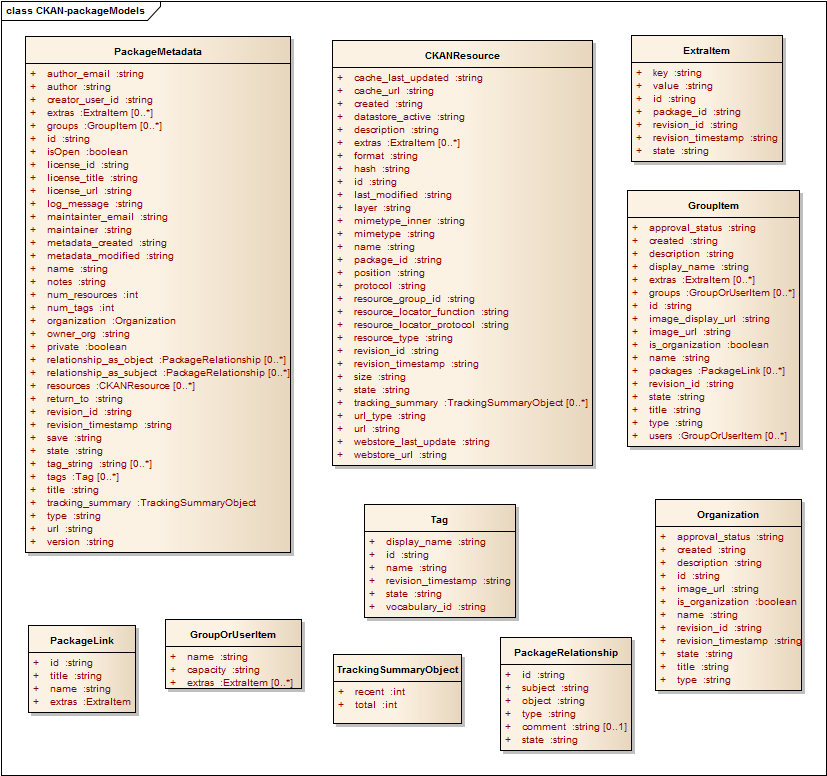
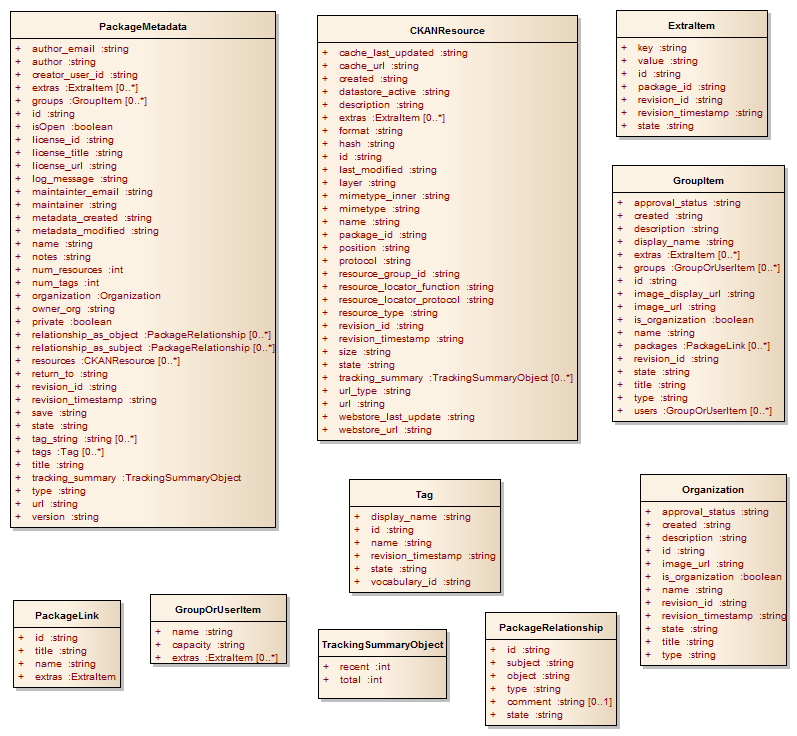
update root pages to get diagram links fixed

diff --git a/EARoot/EA1.htm b/EARoot/EA1.htm
@@ -36,16 +36,16 @@ function nameClassifier(name, separator)
 <img src="EA2.png" usemap="#EA2" border="0" />
 
 <MAP NAME="EA2">
-<area shape="rect" coords="275,569,536,995" href="EA3.htm" target="_self">
-<area shape="rect" coords="62,452,191,522" href="EA12.htm" target="_self">
-<area shape="rect" coords="244,443,396,557" href="EA11.htm" target="_self">
-<area shape="rect" coords="10,525,143,595" href="EA6.htm" target="_self">
-<area shape="rect" coords="215,506,323,594" href="EA8.htm" target="_self">
-<area shape="rect" coords="265,442,397,556" href="EA10.htm" target="_self">
-<area shape="rect" coords="469,363,616,555" href="EA7.htm" target="_self">
-<area shape="rect" coords="470,195,643,452" href="EA5.htm" target="_self">
-<area shape="rect" coords="464,37,616,164" href="EA4.htm" target="_self">
-<area shape="rect" coords="60,10,326,527" href="EA9.htm" target="_self">
+<area shape="rect" coords="13,600,121,688" href="EA8.htm" target="_self">
+<area shape="rect" coords="150,594,287,664" href="EA6.htm" target="_self">
+<area shape="rect" coords="349,479,501,593" href="EA11.htm" target="_self">
+<area shape="rect" coords="318,629,447,699" href="EA12.htm" target="_self">
+<area shape="rect" coords="317,15,578,441" href="EA3.htm" target="_self">
+<area shape="rect" coords="485,612,617,726" href="EA10.htm" target="_self">
+<area shape="rect" coords="640,474,787,666" href="EA7.htm" target="_self">
+<area shape="rect" coords="612,165,785,422" href="EA5.htm" target="_self">
+<area shape="rect" coords="616,10,768,137" href="EA4.htm" target="_self">
+<area shape="rect" coords="10,11,276,528" href="EA9.htm" target="_self">
 </MAP>
 
 	<div class="ObjectTitle">CKAN-packageModels : Class diagram</div>
@@ -56,7 +56,7 @@ function nameClassifier(name, separator)
 		</tr>
 		<tr>
 			<td width="15%" class="ObjectDetailsTopic">Modified:</td>
-			<td width="85%" class="ObjectDetailsValue">4/3/2014 11:20:28 AM</td>
+			<td width="85%" class="ObjectDetailsValue">4/3/2014 2:43:13 PM</td>
 		</tr>
 		<tr style="padding-top: 10px;">
 			<td width="15%" class="ObjectDetailsTopic"><img src="../images/plus03.gif" align="absmiddle" id="proj" onclick="parent.toggleData(this.id)" />Project:</td>

diff --git a/index.htm b/index.htm
@@ -1,0 +1,22 @@
+<!DOCTYPE html PUBLIC "-//W3C//DTD XHTML 1.0 Transitional//EN" "http://www.w3.org/TR/xhtml1/DTD/xhtml1-transitional.dtd">
+<html xmlns="http://www.w3.org/1999/xhtml">
+<head>
+<meta http-equiv="Content-Type" content="text/html; charset=UTF-8" />
+<title>CKAN-packageModels</title>
+<link href="css/ea.css" rel="stylesheet" type="text/css" />
+<script language="JavaScript" src="js/displayToc.js" type="text/javascript"></script>
+</head>
+<body onload="initLoad(this,'toc.htm','./EARoot/EA1.htm')" onresize="resizePage()">
+<div class="IndexTitle">
+	CKAN-packageModels
+</div>
+<div class="IndexHeader" id="IndexHeader">
+	<img src="images/ea.gif" align="right" alt="Enterprise Architect" />
+</div>
+<noscript>
+	<div class="NoScript">
+		It appears that you may have Javascript disabled.
+	</div>
+</noscript>
+</body>
+</html>
